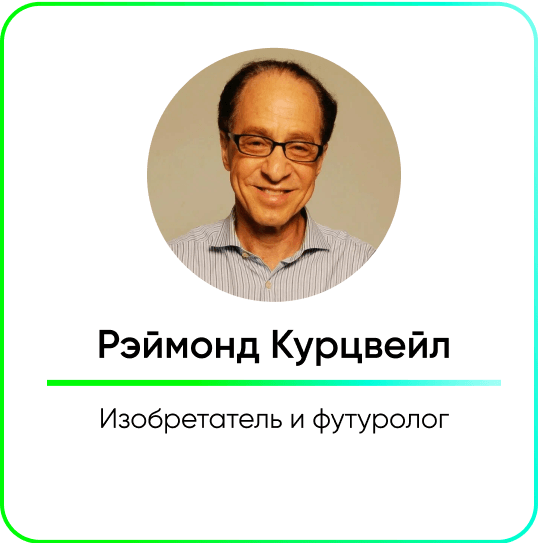
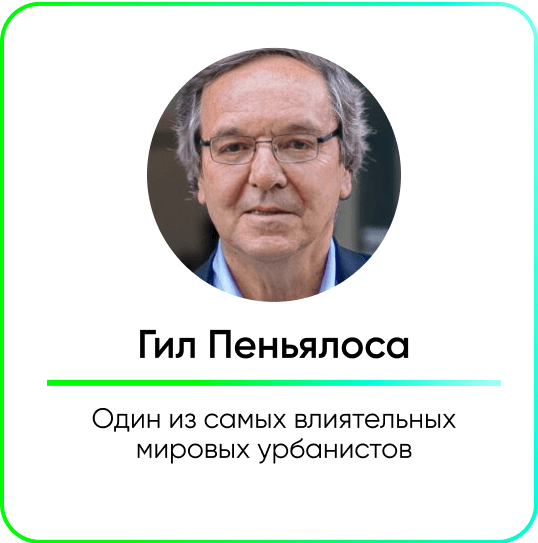
change mik-152

Changed region(s): [[0.2677, 0.0884, 0.7435, 0.5599], [0.1784, 0.7366, 0.8625, 0.8545], [0.1784, 0.5893, 0.8327, 0.6777]]

diff --git a/mik-152/Облачные города.html b/mik-152/Облачные города.html
@@ -153,7 +153,7 @@
                                 <tbody>
                                 <tr>
                                     <td align="left" style="font-size:0px;word-break:break-word;padding-top:15px;">
-                                        <div style="font-family: Gilroy, Helvetica, Arial, sans-serif;font-size:20px;font-weight:400;line-height:24px;text-align:left;color:#FFFFFF;">Приглашаем вас присоединиться к&nbsp;одному из&nbsp;самых значимых событий года — «Облачные&nbsp;города. Форум о&nbsp;будущем городов БРИКС»&nbsp;2024. Мероприятие станет новой точкой отсчета в&nbsp;урбанистике и&nbsp;технологическом развитии городов.</div>
+                                        <div style="font-family: Gilroy, Helvetica, Arial, sans-serif;font-size:20px;font-weight:400;line-height:24px;text-align:left;color:#FFFFFF;">Приглашаем вас присоединиться к&nbsp;одному из&nbsp;самых значимых событий года — «Облачные&nbsp;города. Форум о&nbsp;будущем городов БРИКС». Мероприятие станет новой точкой отсчета в&nbsp;урбанистике и&nbsp;технологическом развитии городов.</div>
                                     </td>
                                 </tr>
                                 </tbody>
@@ -580,7 +580,7 @@
                                         <tbody>
                                         <tr>
                                             <td style="width:269px;">
-                                                <img alt="Рэймонд Курцвейл. Изобретатель и футуролог" height="auto" src="https://cp.unisender.com/ru/user_file?resource=images&user_id=5608985&name=mik-152-speaker-5.png" style="border:0;display:block;outline:none;text-decoration:none;height:auto;width:100%;font-size:13px;" width="269" />
+                                                <img alt="Гил Пеньялоса. Один из самых влиятельных мировых урбанистов" height="auto" src="https://cp.unisender.com/ru/user_file?resource=images&user_id=5608985&name=mik-152-speaker-5.png" style="border:0;display:block;outline:none;text-decoration:none;height:auto;width:100%;font-size:13px;" width="269" />
                                             </td>
                                         </tr>
                                         </tbody>
